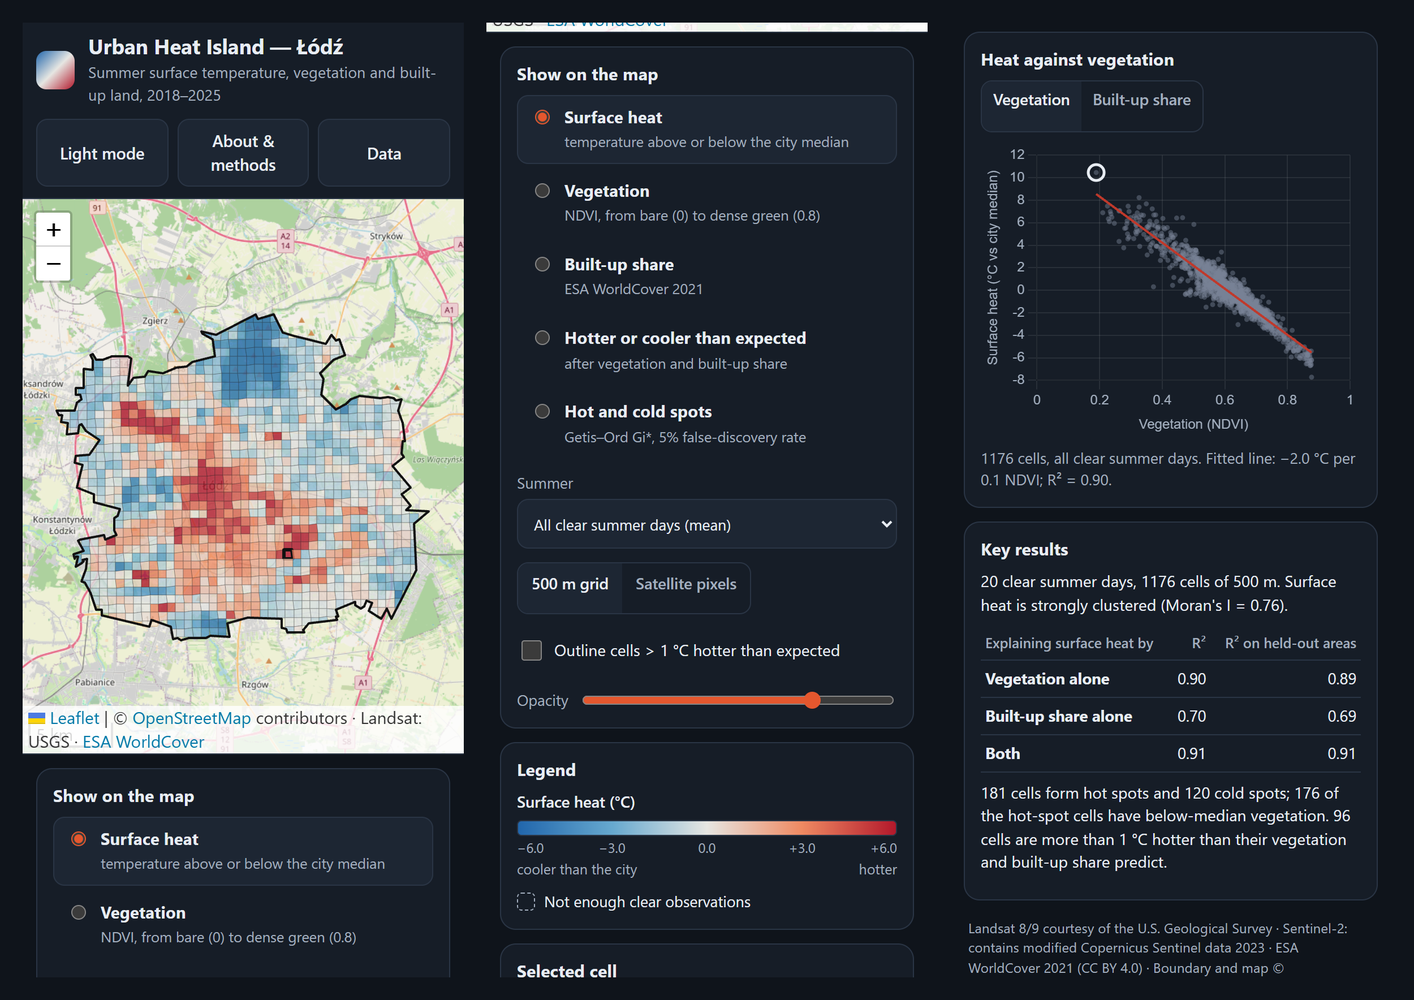
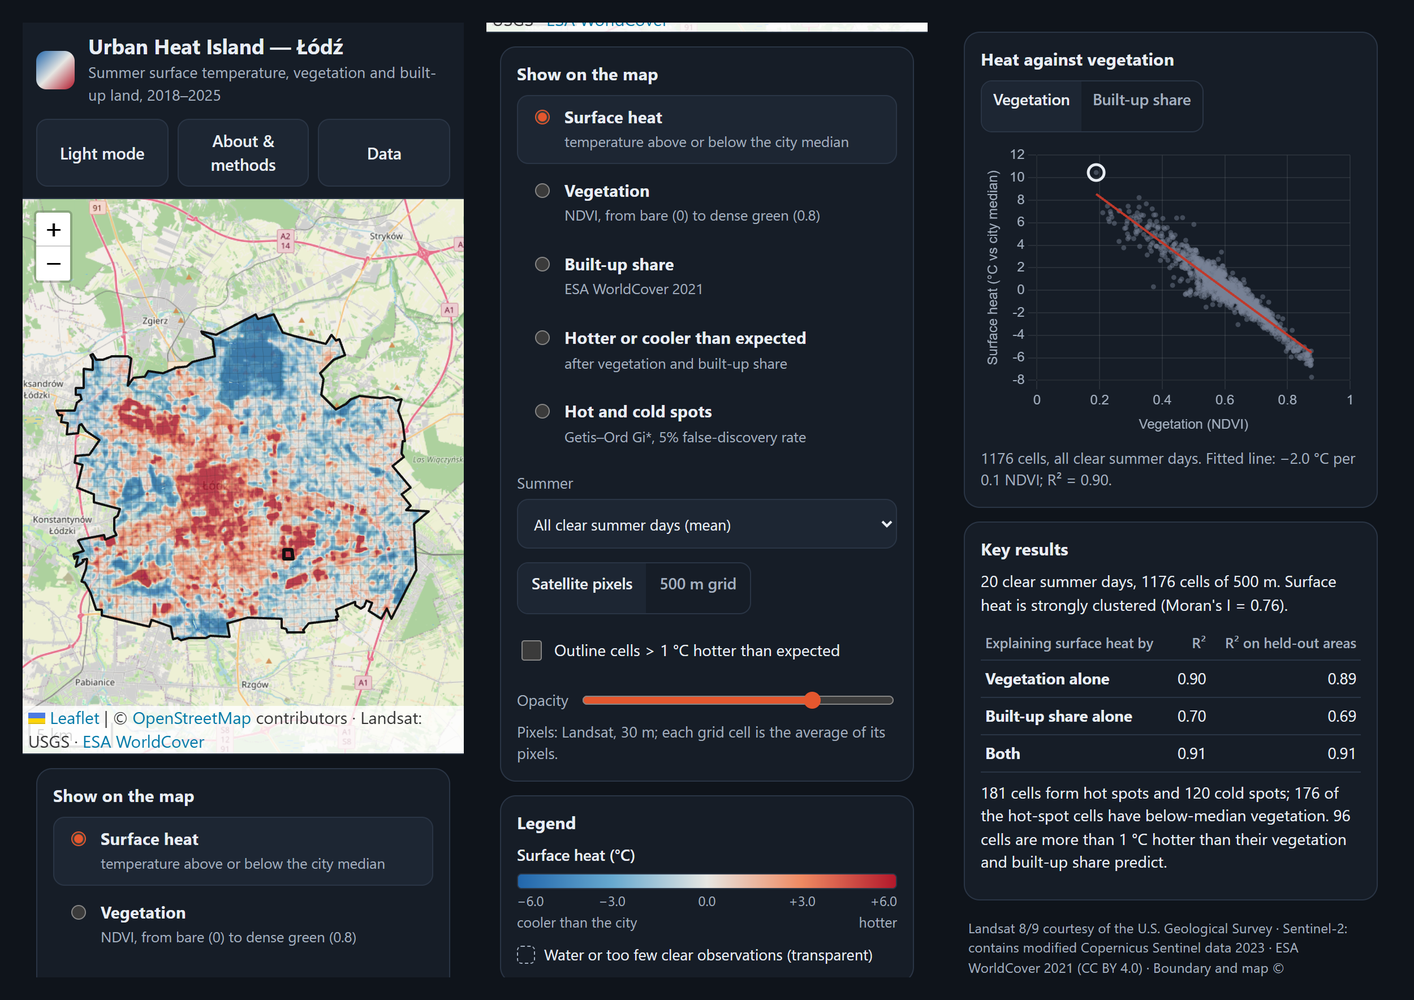
Urban Heat Island Łódź: satellite-pixel view first; refreshed dark screenshots

Changed region(s): [[0.0311, 0.31, 0.3112, 0.651], [0.3423, 0.713, 0.6535, 0.992], [0.3734, 0.558, 0.529, 0.589]]

diff --git a/project-urban-heat.html b/project-urban-heat.html
@@ -150,12 +150,12 @@
       <p class="text-muted mb16">Click any image to zoom in.</p>
       <div class="ss-grid">
         <figure class="ss-card">
-          <img src="./research/urban-heat/fig-app-overview.png" alt="Web map of summer surface heat on the 500 metre grid" loading="lazy" decoding="async"/>
-          <figcaption>Surface heat on the 500&nbsp;m grid — temperature above or below the city median, mean of twenty clear days</figcaption>
+          <img src="./research/urban-heat/fig-app-pixels.png" alt="Web map of summer surface heat at satellite pixel resolution" loading="lazy" decoding="async"/>
+          <figcaption>Surface heat in satellite pixels (30&nbsp;m, the default view) — temperature above or below the city median, mean of twenty clear days</figcaption>
         </figure>
         <figure class="ss-card">
-          <img src="./research/urban-heat/fig-app-pixels.png" alt="Web map of surface heat at satellite pixel resolution" loading="lazy" decoding="async"/>
-          <figcaption>Satellite pixels — the same surface heat at 30&nbsp;m</figcaption>
+          <img src="./research/urban-heat/fig-app-overview.png" alt="Web map of summer surface heat on the 500 metre grid" loading="lazy" decoding="async"/>
+          <figcaption>The same on the 500&nbsp;m grid — each cell averages its pixels</figcaption>
         </figure>
         <figure class="ss-card">
           <img src="./research/urban-heat/fig-app-residual.png" alt="Map of cells hotter or cooler than expected" loading="lazy" decoding="async"/>
